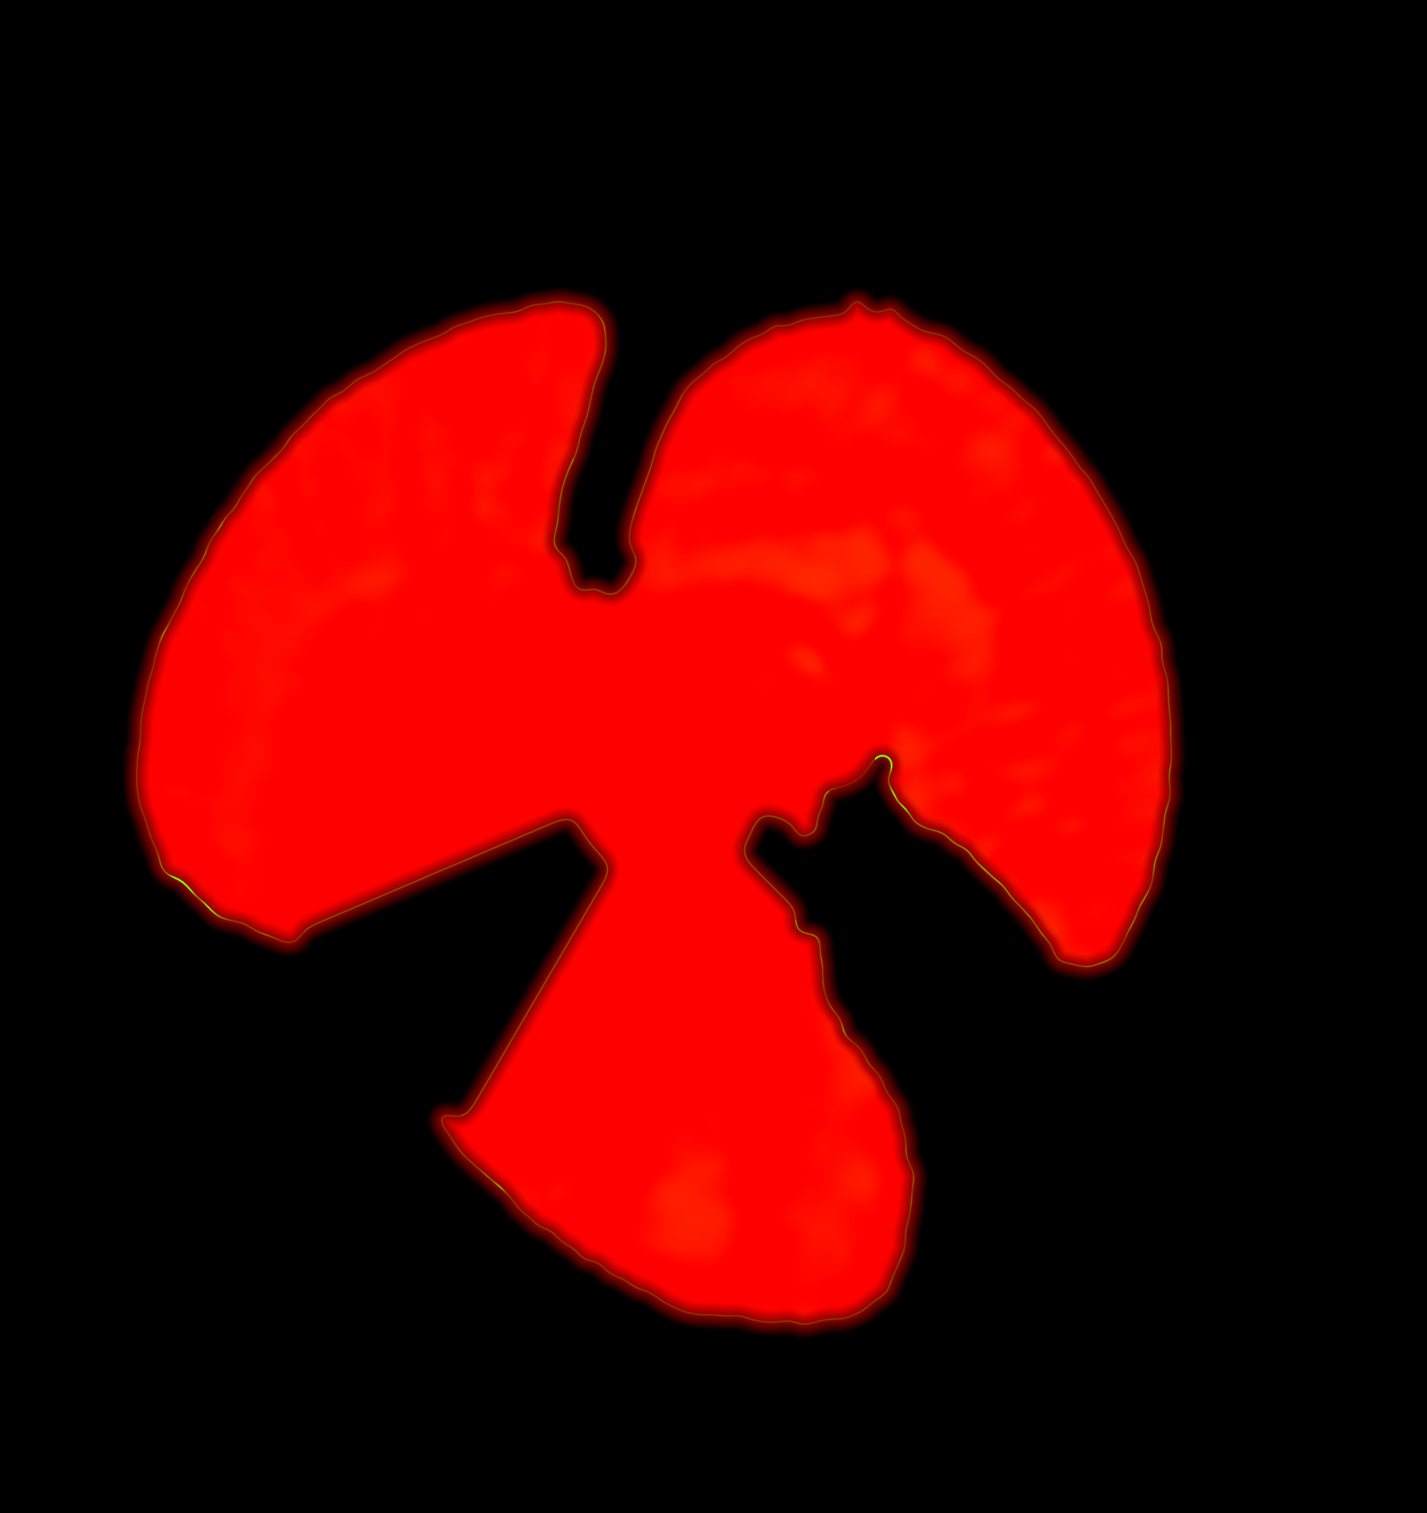
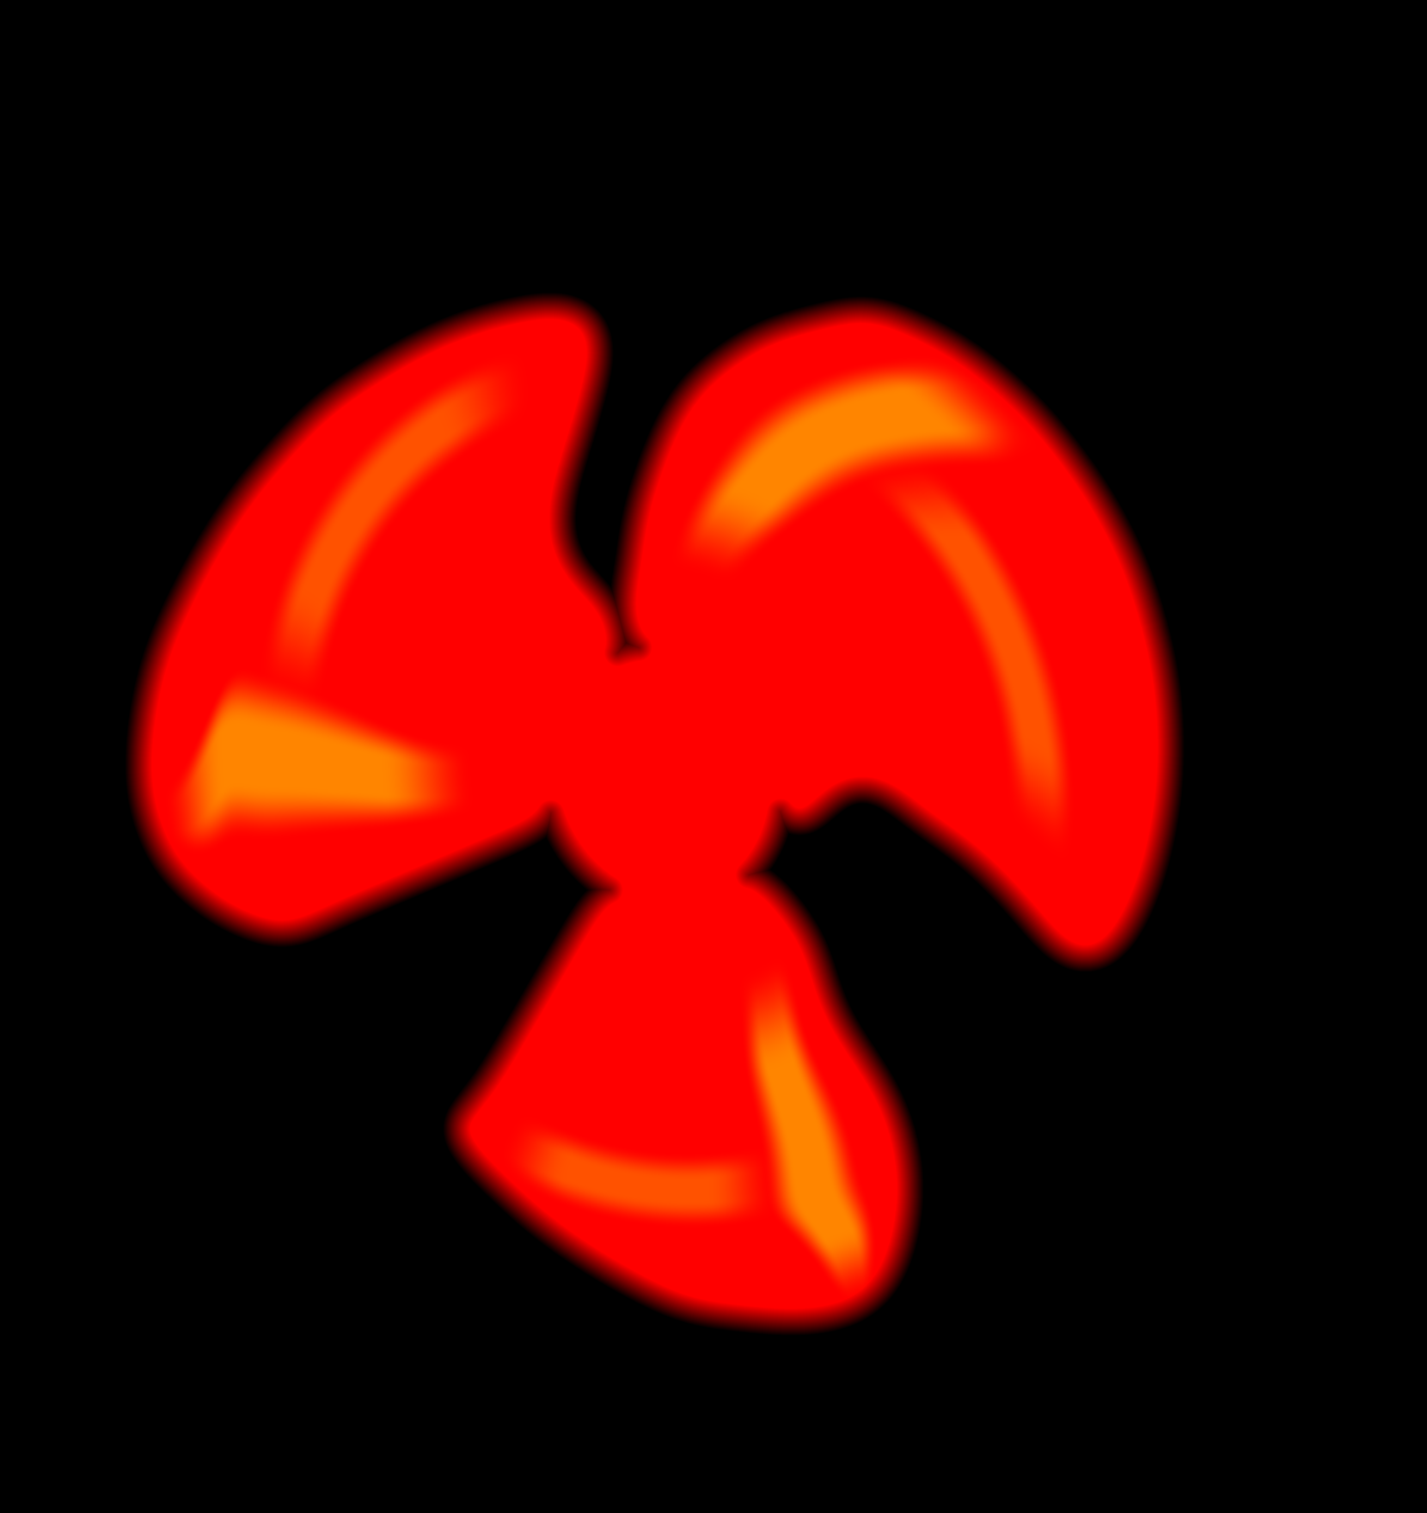
Lab: climb rolling round 2
Claude-Session: https://claude.ai/code/session_01RqENhngNCzDFmJWDZueXGV

diff --git a/src/app/lab/rolling/rollingEngine.js b/src/app/lab/rolling/rollingEngine.js
@@ -7,11 +7,14 @@ import { createStage, clamp } from "../_kit/stage";
 // the whole disc the rotor sweeps it is redrawn, the room continuing through
 // and the rear guard's spokes and rings as soft lines in the disc plane over
 // the motor housing, so no shadow of the photographed blades stays), the rotor (the three blades as
-// acrylic: a signed distance to one smooth outline per blade, cut hard; the
-// photo's own blade pixels, its gloss and hub-to-tip shading with only part
-// of its fine texture, the wires that crossed it filled from the blade beside
-// them, a little less saturated and at 0.6 opacity, so the plate shows
-// through the acrylic; a thin specular rim), and the front (the guard's
+// moulded acrylic: a signed distance to one outline per blade, a low-order
+// Fourier fit with one continuous tip arc, cut hard, since the readout drags
+// any burr on it out into a frayed stroke end; a body that is a smooth field
+// in blade coordinates, the photo's hub-to-tip and chordwise light, two crisp
+// gloss bands and a denser, darker moulded lip, with no photo grain for the
+// rows to stretch into striations; the plate shows through it, tinted; and a
+// bright edge drawn here, lit by the lamp as far as the outline faces it at
+// each sub-sample's angle), and the front (the guard's
 // wires and centre badge: each wire cut from the photo's own luminance, as
 // wide as the photo shows it and keeping the steel's shading and highlights,
 // running out to the guard's rim, where the plate keeps the same wires).
@@ -90,6 +93,15 @@ const TORQUE = 260; // motor torque cap
 const PX_PER_RPM = 0.15; // drag distance (CSS px) per rpm of set speed
 
 const AA = 0.6; // the blade outline's anti-aliasing width, device px: a moulded edge, caught hard
+// The blade's moulded edge: a bright line EDGE_AT device px inside the
+// outline, EDGE_W wide (sigma), as bright as EDGE where the edge faces the
+// ceiling lamp (LAMP_DIR, picture space, y down) and EDGE_BACK of that where
+// it faces away, so the glint runs round each torn piece as it turns.
+const EDGE = 0.7;
+const EDGE_AT = 0.8;
+const EDGE_W = 0.5;
+const EDGE_BACK = 0.12;
+const LAMP_DIR = [-0.29, -0.96];
 const PAPER = [0.949, 0.941, 0.922]; // #f2f0eb
 
 const VS = `#version 300 es
@@ -125,6 +137,7 @@ uniform float uTint;
 uniform float uLamp0; // the lamp's phase (cycles) at the frame's first row
 uniform vec3 uLampDepth;
 uniform vec3 uLampLag;
+uniform vec2 uLampDir;
 out vec4 o;
 
 vec3 enc(vec3 c){ c = clamp(c, 0.0, 1.0); return mix(c * 12.92, 1.055 * pow(c, vec3(1.0 / 2.4)) - 0.055, step(0.0031308, c)); }
@@ -186,12 +199,26 @@ void main(){
     float c = cos(a), sn = sin(a);
     vec2 r = (uFromDisc * vec2(c * d.x + sn * d.y, -sn * d.x + c * d.y) + uHub) / uImg;
     vec2 sh = texture(uShape, r).rg;
-    float cov = clamp((sh.r * 255.0 - 128.0) / uSdf * uPx / ${AA.toFixed(2)} + 0.5, 0.0, 1.0);
+    float sd = (sh.r * 255.0 - 128.0) / uSdf * uPx; // device px, + inside
+    float cov = clamp(sd / ${AA.toFixed(2)} + 0.5, 0.0, 1.0);
     vec4 t = texture(uRotor, r);
     vec3 L = lampAt(tau);
     vec3 tint = pow(t.rgb / max(max(t.r, max(t.g, t.b)), 1e-4), vec3(uTint));
+    // The moulded edge: a line ${EDGE_AT} device px inside the outline, lit
+    // by the lamp as far as the edge faces it. The outline's normal is the
+    // signed distance's gradient, carried from the rotor's own frame to the
+    // picture through this sub-sample's turn (J = fromDisc R toDisc, n = J^T g).
+    float edge = 0.0;
+    if (abs(sd) < 3.0) {
+      vec2 ex = vec2(1.5 / uImg.x, 0.0), ey = vec2(0.0, 1.5 / uImg.y);
+      vec2 g = vec2(texture(uShape, r + ex).r - texture(uShape, r - ex).r, texture(uShape, r + ey).r - texture(uShape, r - ey).r);
+      vec2 n = -(transpose(uFromDisc * mat2(c, -sn, sn, c) * uToDisc) * g);
+      float face = dot(n, uLampDir) / max(length(n), 1e-6);
+      float glint = mix(${EDGE_BACK.toFixed(2)}, 1.0, pow(max(face, 0.0), 1.5));
+      edge = exp(-0.5 * pow((sd - ${EDGE_AT.toFixed(2)}) / ${EDGE_W.toFixed(2)}, 2.0)) * glint;
+    }
     accT += L * (1.0 - cov + cov * (1.0 - t.a) * tint);
-    accE += L * cov * (t.a * t.rgb + sh.g * uRim * (0.5 + 0.5 * tint));
+    accE += L * (cov * (t.a * t.rgb + sh.g * uRim * (0.5 + 0.5 * tint)) + edge * ${EDGE.toFixed(2)} * (0.45 + 0.55 * tint));
   }
   vec3 col = (plate * accT + accE) / float(${SUB});
   col = mix(col, f.rgb * lit, f.a);
@@ -405,6 +432,7 @@ export async function createRolling(host, { embedded = false } = {}) {
     gl.uniform1f(u.uLamp0, lastFrame.lamp);
     gl.uniform3f(u.uLampDepth, ...lampDepth);
     gl.uniform3f(u.uLampLag, ...lampLag);
+    gl.uniform2f(u.uLampDir, LAMP_DIR[0], LAMP_DIR[1]);
     // Readout direction: rows run along (cos, sin) of the scan angle's
     // perpendicular; s grows down the frame at scan = 0.
     const a = lastFrame.scan;

diff --git a/tools/depth/bakes/rolling/acrylic.py b/tools/depth/bakes/rolling/acrylic.py
@@ -1,0 +1,252 @@
+"""Rolling: the blades as moulded acrylic, not photo strokes.
+
+    python3 -I tools/depth/bakes/rolling/bake.py --acrylic SRC/ OUT/
+
+(bake.py's last step, after photo_front.py and texture.py.) SRC holds the
+print with texture.py's rotor.webp (the photo's own blade, wire notches
+filled) and bake.py's rotor-shape.webp; rotor.webp and rotor-shape.webp are
+rewritten in OUT, everything else is left alone.
+
+The readout shears every row of a turning blade by a different angle, so any
+irregularity of its outline is drawn out along the rows: a notch or a burr on
+the edge becomes a frayed, streaky stroke end, and the photo's fine texture
+inside it (sampled once per row) becomes horizontal striations. So the
+acrylic is rebuilt from two smooth things:
+
+  outline  each blade separately, in the disc's own plane (the guard rim's
+           ellipse undone, so the three blades are alike): the old outline
+           (the greenness edge, closed over the wire notches) cut off the hub,
+           its contour resampled by arc length and fitted with a low-order
+           Fourier series (OUTLINE_SIG: a Gaussian taper over the harmonics,
+           so nothing shorter than a few tens of px survives and the tip is
+           one continuous arc), then mapped back to the picture, joined to a
+           round hub under the badge and turned into an exact signed distance.
+  shading  a field in blade coordinates (rho, the disc radius, and the
+           chord, 0 at the leading edge, 1 at the trailing), smooth along
+           every row: the photo's hub-to-tip and leading-to-trailing light
+           fitted as a low-order polynomial over the three blades, the
+           blades' one mean green, and two broad gloss bands (a long
+           highlight running out along the blade near its leading edge, and
+           a shorter one across it at mid radius), carried as specular.
+  lip      the moulded edge is thicker: within LIP px of the outline the
+           sheet is denser (more opaque, a deeper green), so each piece is
+           framed by a dark glassy band. The engine draws the bright edge on
+           it, lit by the lamp according to the outline's normal at each
+           sub-sample's angle.
+"""
+import json, os
+import numpy as np, cv2
+
+OUTLINE_SIG = 40   # disc-plane px (800 px = rim radius): the contour's Gaussian smoothing along its length
+NOTCH = 40        # disc-plane px: the radius of the closing that fills the key's notches before the fit
+HUB_CUT = 0.17     # disc radius: the blades are cut off the hub here and fitted alone
+HUB_R = 0.19       # the round hub they are joined back to (under the badge)
+DISC_PX = 800      # disc-plane px per rim radius
+SS = 4             # supersampling of the filled outline
+A_SHEET, A_LIP = 0.42, 0.8   # the sheet's opacity, and at the moulded lip
+LIP, LIP_DARK = 4.0, 0.5     # px the lip runs in from the outline; the body's gain there
+CHROMA = 1.0      # the body's chroma against the blades' mean
+GLOSS_LEAD = (0.22, 0.07, 0.26)   # chord, half width, strength: the long highlight near the leading edge
+GLOSS_MID = (0.6, 0.035, 0.16)    # rho, half width, strength: the band across the blade
+LUM = np.array([0.0722, 0.7152, 0.2126], np.float32)  # BGR
+
+
+def _smooth_closed(p, sig):
+    """A closed contour (n x 2) resampled every px of arc and low-passed by a
+    Gaussian taper over its Fourier harmonics."""
+    pc = np.vstack([p, p[:1]]).astype(np.float64)
+    s = np.concatenate([[0], np.cumsum(np.hypot(*np.diff(pc, axis=0).T))])
+    n = max(64, int(s[-1]))
+    t = np.linspace(0, s[-1], n, endpoint=False)
+    q = np.stack([np.interp(t, s, pc[:, 0]), np.interp(t, s, pc[:, 1])], 1)
+    fr = np.fft.fftfreq(n, d=s[-1] / n)
+    return np.real(np.fft.ifft(np.fft.fft(q, axis=0) * np.exp(-0.5 * (2 * np.pi * fr * sig) ** 2)[:, None], axis=0))
+
+
+class Disc:
+    def __init__(self, meta, h, w):
+        self.hx, self.hy = meta["hub"]
+        e1x, e1y, e2x, e2y, a, b = meta["disc"]
+        self.e1, self.e2, self.a, self.b = np.array([e1x, e1y]), np.array([e2x, e2y]), a, b
+        yy, xx = np.mgrid[0:h, 0:w].astype(np.float32)
+        self.u, self.v = self.to_disc(xx, yy)
+        self.rho = np.hypot(self.u, self.v)
+        self.phi = np.arctan2(self.v, self.u)
+
+    def to_disc(self, x, y):
+        dx, dy = x - self.hx, y - self.hy
+        return (dx * self.e1[0] + dy * self.e1[1]) / self.a, (dx * self.e2[0] + dy * self.e2[1]) / self.b
+
+    def to_img(self, u, v):
+        return (self.hx + u * self.a * self.e1[0] + v * self.b * self.e2[0],
+                self.hy + u * self.a * self.e1[1] + v * self.b * self.e2[1])
+
+
+def blades(mask, D):
+    """The blades' smoothed outlines, in disc units (one n x 2 array each)."""
+    n = 2 * DISC_PX
+    jj, ii = np.meshgrid(np.arange(n), np.arange(n))
+    u, v = (jj + 0.5) / DISC_PX - 1, (ii + 0.5) / DISC_PX - 1
+    mx, my = D.to_img(u, v)
+    md = cv2.remap(mask.astype(np.float32), mx.astype(np.float32), my.astype(np.float32), cv2.INTER_LINEAR) > 0.5
+    rd = np.hypot(u, v)
+    md &= rd > HUB_CUT
+    md = md.astype(np.uint8)
+    # Under the badge the carried blade roots run together; the blades are
+    # told apart where they first stand clear of each other, and every root
+    # pixel goes to the nearest of them.
+    for r_sep in np.arange(HUB_CUT, 0.6, 0.01):
+        nc, lab, st, _ = cv2.connectedComponentsWithStats(md & (rd > r_sep).astype(np.uint8), 8)
+        big = [i for i in range(1, nc) if st[i, cv2.CC_STAT_AREA] > 0.03 * md.sum()]
+        if len(big) >= 3:
+            break
+    seeds = np.zeros(md.shape, np.int32)
+    for j, i in enumerate(big):
+        seeds[lab == i] = j + 1
+    _, near = cv2.distanceTransformWithLabels((seeds == 0).astype(np.uint8), cv2.DIST_L2, 5, labelType=cv2.DIST_LABEL_PIXEL)
+    lut = np.zeros(near.max() + 1, np.int32)
+    lut[near[seeds > 0]] = seeds[seeds > 0]
+    lab = np.where(md > 0, lut[near], 0)
+    print("acrylic: blades part at rho", round(float(r_sep), 2))
+    out = []
+    for i in range(1, len(big) + 1):
+        # notches narrower than a moulding has (the badge's shadow and the
+        # wires bit them out of the key) are closed before the fit
+        bl = cv2.morphologyEx((lab == i).astype(np.uint8), cv2.MORPH_CLOSE,
+                              cv2.getStructuringElement(cv2.MORPH_ELLIPSE, (2 * NOTCH + 1,) * 2))
+        cs, _ = cv2.findContours(bl, cv2.RETR_EXTERNAL, cv2.CHAIN_APPROX_NONE)
+        c = max(cs, key=cv2.contourArea)[:, 0, :].astype(np.float64)
+        q = _smooth_closed(c, OUTLINE_SIG)
+        out.append((q + 0.5) / DISC_PX - 1)
+    return out
+
+
+def outline_sdf(outlines, D, h, w):
+    """Fill the blades and the hub (4x supersampled, sub-pixel vertices) and
+    return the signed distance to the union's edge, picture px, + inside."""
+    m4 = np.zeros((h * SS, w * SS), np.uint8)
+    t = np.linspace(0, 2 * np.pi, 720, endpoint=False)
+    for q in outlines + [np.stack([HUB_R * np.cos(t), HUB_R * np.sin(t)], 1)]:
+        x, y = D.to_img(q[:, 0], q[:, 1])
+        g = np.round((np.stack([x, y], 1) * SS + (SS - 1) / 2) * 16).astype(np.int32)
+        cv2.fillPoly(m4, [g], 1, lineType=cv2.LINE_8, shift=4)
+    d_in = cv2.distanceTransform(m4, cv2.DIST_L2, cv2.DIST_MASK_PRECISE)
+    d_out = cv2.distanceTransform(1 - m4, cv2.DIST_L2, cv2.DIST_MASK_PRECISE)
+    sdf4 = np.where(m4 > 0, d_in - 0.5, 0.5 - d_out) / SS
+    del d_in, d_out, m4
+    return cv2.resize(sdf4, (w, h), interpolation=cv2.INTER_AREA).astype(np.float32)
+
+
+def chord_field(outlines, D):
+    """Each pixel's blade coordinates: the nearest blade's chord position
+    (0 at its leading edge, 1 at its trailing; the rotor turns toward
+    decreasing phi) at the pixel's radius. The blade's angular extent at each
+    radius is smoothed along the radius, so the field is smooth."""
+    NR, NP = 400, 2048
+    rr = (np.arange(NR) + 0.5) / NR
+    best = np.full(D.rho.shape, np.inf, np.float32)
+    chord = np.zeros(D.rho.shape, np.float32)
+    for q in outlines:
+        ph = np.arctan2(q[:, 1], q[:, 0])
+        mid = np.arctan2(np.sin(ph).mean(), np.cos(ph).mean())
+        img = np.zeros((NR, NP), np.uint8)
+        qr = np.hypot(q[:, 0], q[:, 1]) * NR
+        qp = (np.angle(np.exp(1j * (ph - mid))) + np.pi) / (2 * np.pi) * NP
+        cv2.fillPoly(img, [np.round(np.stack([qp, qr], 1) * 16).astype(np.int32)], 1, shift=4)
+        lo, hi, ok = np.zeros(NR), np.zeros(NR), np.zeros(NR, bool)
+        for r in range(NR):
+            nz = np.nonzero(img[r])[0]
+            if len(nz) > 4:
+                lo[r], hi[r], ok[r] = nz[0], nz[-1], True
+        idx = np.nonzero(ok)[0]
+        lo = np.interp(np.arange(NR), idx, lo[idx])
+        hi = np.interp(np.arange(NR), idx, hi[idx])
+        lo = cv2.GaussianBlur(lo[:, None], (1, 0), 6)[:, 0]
+        hi = cv2.GaussianBlur(hi[:, None], (1, 0), 6)[:, 0]
+        lo = lo / NP * 2 * np.pi - np.pi
+        hi = hi / NP * 2 * np.pi - np.pi
+        L = np.interp(D.rho, rr, lo)
+        Hh = np.interp(D.rho, rr, hi)
+        p = np.angle(np.exp(1j * (D.phi - mid)))
+        c = (p - L) / np.maximum(Hh - L, 1e-3)
+        dist = np.abs(c - 0.5)
+        take = dist < best
+        best[take] = dist[take]
+        chord[take] = c[take]
+    return np.clip(chord, -0.3, 1.3)
+
+
+def _sm(x, a, b):
+    t = np.clip((x - a) / (b - a), 0, 1)
+    return t * t * (3 - 2 * t)
+
+
+def _basis(rho, c):
+    r = (rho - 0.5) / 0.3
+    cc = c - 0.5
+    return np.stack([np.ones_like(r), r, r * r, cc, cc * cc, r * cc], -1)
+
+
+def build(src, out):
+    meta = json.load(open(f"{src}/meta.json"))
+    shp = cv2.imread(f"{src}/rotor-shape.webp", cv2.IMREAD_UNCHANGED).astype(np.float32)
+    rot = cv2.imread(f"{src}/rotor.webp", cv2.IMREAD_UNCHANGED).astype(np.float32) / 255
+    h, w = shp.shape[:2]
+    D = Disc(meta, h, w)
+    sdf_old = (shp[..., 2] - 128) / meta["sdf"]
+    outlines = blades(sdf_old > 0, D)
+    sdf = outline_sdf(outlines, D, h, w)
+    chord = chord_field(outlines, D)
+    rho = D.rho
+
+    # --- the photo's light over the blade, fitted smooth: where the old body
+    # is the photo's own blade (clear of the badge, the sticker's patch and
+    # the outline), a low-order polynomial in (rho, chord) of its luminance
+    lin = rot[..., :3] ** 2.2
+    bx, by, br = meta["badge"]
+    yy, xx = np.mgrid[0:h, 0:w].astype(np.float32)
+    rb = np.hypot(xx - bx, yy - by)
+    fit = (sdf > 8) & (sdf_old > 8) & (rb > br + 40) & (rho < 0.8)
+    Y = lin @ LUM
+    mean = (lin[fit]).mean(0)
+    B = _basis(rho[fit], chord[fit])
+    coef, *_ = np.linalg.lstsq(B, Y[fit] / float(mean @ LUM), rcond=None)
+    shade = np.clip(_basis(np.clip(rho, 0.2, 0.85), np.clip(chord, 0, 1)) @ coef, 0.6, 1.5)
+    # the hub, where the blades run together under the badge, is one sheet:
+    # no blade coordinates there, the roots' mean light
+    root = (rho > 0.3) & (rho < 0.36) & (sdf > 4)
+    shade = shade + (float(shade[root].mean()) - shade) * (1 - _sm(rho, 0.24, 0.34))
+    print("acrylic: shading", np.round(coef, 3), "range", round(float(shade[fit].min()), 2), round(float(shade[fit].max()), 2))
+    mY = float(mean @ LUM)
+    col = mY + CHROMA * (mean - mY)
+    body = col[None, None] * shade[..., None]
+
+    # --- the lip: the moulded edge is thicker, denser and a deeper green
+    lip = np.exp(-np.maximum(sdf, 0) / LIP)
+    body *= (1 - (1 - LIP_DARK) * lip)[..., None]
+    opac = A_SHEET + (A_LIP - A_SHEET) * lip
+
+    # --- the gloss: two broad bands in blade coordinates, specular
+    c0, cw, cs = GLOSS_LEAD
+    r0, rw, rs = GLOSS_MID
+    # a moulded sheet's highlights are crisp: plateaus with short ramps, not
+    # haze (they are smooth along every row, so the readout keeps them crisp)
+    def band(x, x0, half, ramp):
+        return _sm(x, x0 - half - ramp, x0 - half + ramp) * (1 - _sm(x, x0 + half - ramp, x0 + half + ramp))
+    g_lead = cs * band(chord, c0, cw, 0.035) * _sm(rho, 0.3, 0.45) * (1 - _sm(rho, 0.7, 0.8))
+    g_mid = rs * band(rho, r0, rw, 0.02) * _sm(chord, 0.3, 0.45) * (1 - _sm(chord, 0.75, 0.9))
+    gloss = (g_lead + g_mid) * _sm(sdf, 3, 9) * _sm(rho, 0.26, 0.34)
+    rim = gloss
+
+    sdf_scale, rim_max = meta["sdf"], meta["rim"]
+    os.makedirs(out, exist_ok=True)
+    enc = np.clip(np.clip(body, 0, 1) ** (1 / 2.2) * 255 + 0.5, 0, 255).astype(np.uint8)
+    cv2.imwrite(f"{out}/rotor.webp", np.dstack([enc, np.clip(opac * 255 + 0.5, 0, 255).astype(np.uint8)]),
+                [cv2.IMWRITE_WEBP_QUALITY, 96])
+    shape = np.dstack([np.zeros((h, w), np.uint8),
+                       np.clip(rim / rim_max * 255 + 0.5, 0, 255).astype(np.uint8),
+                       np.clip(128 + sdf * sdf_scale + 0.5, 0, 255).astype(np.uint8)])  # BGR
+    cv2.imwrite(f"{out}/rotor-shape.webp", shape, [cv2.IMWRITE_WEBP_QUALITY, 101])
+    if os.path.abspath(src) != os.path.abspath(out):
+        json.dump(meta, open(f"{out}/meta.json", "w"))
+    return sdf, chord, body, opac, rim

diff --git a/tools/depth/bakes/rolling/bake.py b/tools/depth/bakes/rolling/bake.py
@@ -2,6 +2,7 @@
 
     python3 -I tools/depth/bakes/rolling/bake.py photo.png work/ public/lab/rolling/ [--fill telea|lama]
     python3 -I tools/depth/bakes/rolling/bake.py --rebuild public/lab/rolling/ public/lab/rolling/
+    python3 -I tools/depth/bakes/rolling/bake.py --acrylic TEXTURED/ public/lab/rolling/
 
 The photo is Wikimedia Commons' 3840 px rendition (CC0; the 2560 px size is
 not served), area-resampled to 2560 px wide before the bake:
@@ -85,6 +86,19 @@ texture.py then replaces rotor.webp's flat body with the photo's own blade
 pixels (veins, gloss, shading) at a higher opacity; run it after a bake or a
 --rebuild.
 
+--acrylic SRC OUT is the last step (acrylic.py), on texture.py's output: it
+rebuilds the rotor as moulded acrylic. The rolling shutter shears each row of
+a turning blade by a different angle, so every burr on the outline above
+became a frayed stroke end and the photo's fine texture inside it became
+horizontal striations. Each blade's outline is refitted in the disc's own
+plane as a low-order Fourier curve (notches closed first), so it is one
+smooth edge with one continuous tip arc, and the body becomes a field in
+blade coordinates (radius, chord) that is smooth along every row: the photo's
+hub-to-tip and chordwise light as a low-order polynomial, two crisp broad
+gloss bands, and a denser, darker moulded lip. rotor-shape's G then holds
+only the gloss: the engine draws the bright edge itself, lit by the lamp
+through the outline's normal at each sub-sample's angle.
+
 --rebuild SRC OUT re-runs only the reveal on a published print (the photo
 is not needed), so the reveal can be tuned without re-fetching it.
 
@@ -118,7 +132,14 @@ ap.add_argument("photo", nargs="?"); ap.add_argument("work", nargs="?"); ap.add_
 ap.add_argument("--fill", default="telea")
 ap.add_argument("--rebuild", nargs=2, metavar=("SRC", "OUT"),
                 help="re-run only the reveal (reveal.py) on a published print")
+ap.add_argument("--acrylic", nargs=2, metavar=("SRC", "OUT"),
+                help="rebuild the rotor as moulded acrylic (acrylic.py) from texture.py's output")
 a = ap.parse_args()
+if a.acrylic:
+    import acrylic  # noqa: E402
+    acrylic.build(*a.acrylic)
+    print("acrylic", a.acrylic[1])
+    sys.exit(0)
 if a.rebuild:
     meta, _ = reveal.rebuild_assets(a.rebuild[0], a.rebuild[1], dict(
         RIM_C=RIM_C0, RIM_AX=np.array(RIM_AX0), E1=E1, E2=E2, PRINT=PRINT, STICKER=STICKER0, AXIS_T=AXIS_T))

diff --git a/tools/depth/bakes/rolling/texture.py b/tools/depth/bakes/rolling/texture.py
@@ -29,6 +29,11 @@ the print pixel for pixel.
           1 - A_TEX, tinted by the body's hue.
 
 Everything else bake.py made (outline, rim, plate, front) is kept.
+
+Its output is not published as it is: bake.py --acrylic reads it (the photo's
+blade, wires filled) and fits the smooth shading field the engine draws, so
+no fine texture turns with the blade (the readout stretches it into
+striations).
 """
 import sys, os, json
 import numpy as np, cv2
